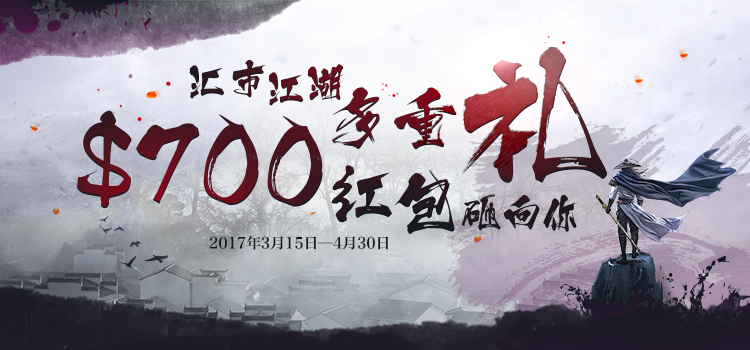
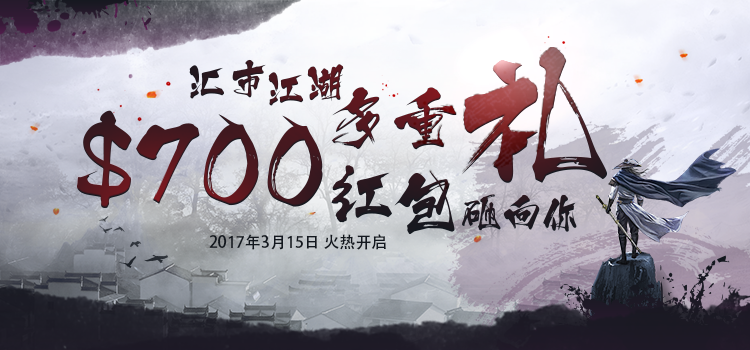
MOD:活动时间修改

Changed region(s): [[0.276, 0.6571, 0.5213, 0.7143], [0.184, 0.2571, 0.2147, 0.2857]]

diff --git a/client/views/bd_redbag.html b/client/views/bd_redbag.html
@@ -23,7 +23,7 @@
                         <div class="cont">
                             <img src="/images/bd_redbag/rb_1-1.png" alt="" class="title">
                             <img src="/images/bd_redbag/rb_1-2.png" alt="" class="tip">
-                            <p class="range">2017年3月15日－4月30日</p>
+                            <p class="range">2017年3月15日 火热开启</p>
                         </div>
                         <a href="/space/#/space/redbag/own" class="section_btn">
                             <span>注册领红包</span>
